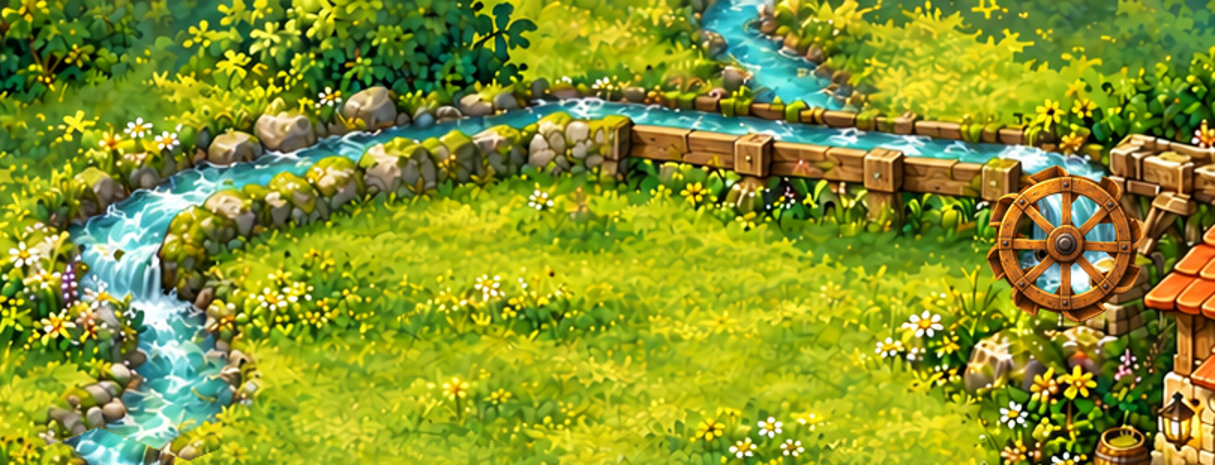
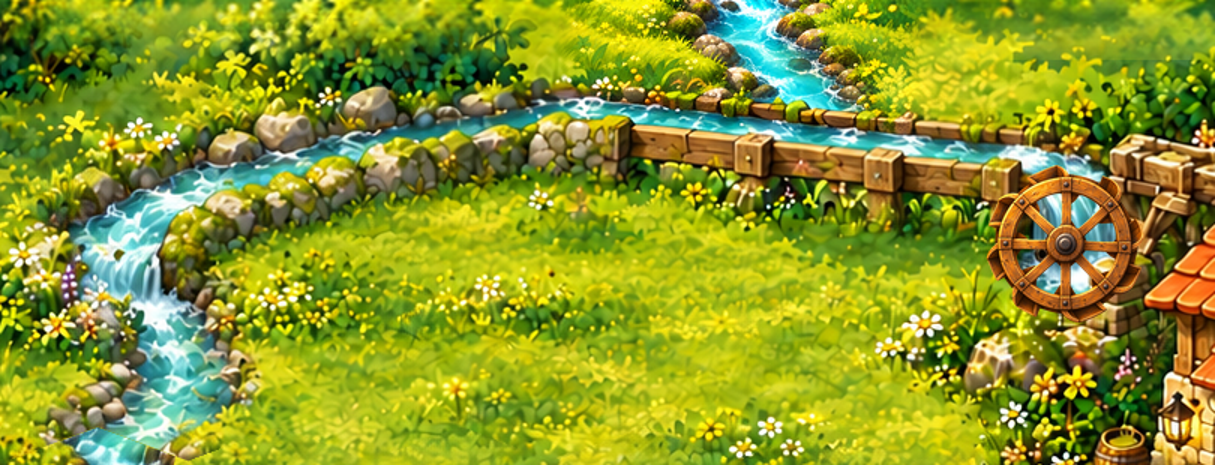
art(#46): deliver registered mill wide and repaired feeder join for actual review

Changed region(s): [[0.0, 0.0, 1.0, 0.3011]]

diff --git a/scripts/art-v9-mill-delivery.py b/scripts/art-v9-mill-delivery.py
@@ -104,7 +104,9 @@ for name, im in [('board-mask',board),('free-mask',free),('logical-water-mask',w
 native.save(out/'background.webp',lossless=True,method=6)
 # Explicit registration artifact; transparent outer region is not painted outpaint.
 wide_info={'status':'INCOMPLETE-native-registration-only-no-painted-outer-source','canvas':[4096,1600],'originalRect':[1212,329,1672,941]}
-wide_source=base/'candidates/mill-wide-generated-v1.png'
+native_before_wide=native.copy()
+native_before_wide.save(out/'native-registration-reference.png')
+wide_source=base/'candidates/mill-wide-generated-v2.png'
 fit_path=out/'wide-registration-fit.json'
 if wide_source.exists() and fit_path.exists():
     fit=json.loads(fit_path.read_text())
@@ -116,18 +118,53 @@ if wide_source.exists() and fit_path.exists():
     for inset in range(49):
         draw.rectangle((inset,inset,size[0]-1-inset,size[1]-1-inset),fill=round(inset*255/48))
     blend=ImageChops.lighter(blend,board)
+    ImageDraw.Draw(blend).rectangle((1210,40,1671,430),fill=255)
     patch=canvas.crop((1212,329,2884,1270))
     canvas.paste(Image.composite(native,patch,blend),(1212,329))
     wide=canvas.crop((412,200,3684,1400))
+    feeder_join_source=base/'candidates/mill-feeder-join-generated-v3.png'
+    if feeder_join_source.exists():
+        # Decorative feeder repair is entirely above the77-board and left of
+        # the protected building. Native and wide receive the same world patch.
+        patch=Image.open(feeder_join_source).convert('RGB').resize((250,185),Image.Resampling.LANCZOS)
+        patch_mask=Image.new('L',(250,185));patch_draw=ImageDraw.Draw(patch_mask)
+        for inset in range(17):
+            patch_draw.rectangle((inset,inset,249-inset,184-inset),fill=round(inset*255/16))
+        area=wide.crop((1730,45,1980,230))
+        wide.paste(Image.composite(patch,area,patch_mask),(1730,45))
+        native=wide.crop((800,129,2472,1070))
+        # Preserve a consistent core asset when runtime composites native over
+        # wide; do not reintroduce the repaired feeder seam with an old core.
+        native.save(out/'native-background.png')
+        native.save(out/'background.webp',lossless=True,method=6)
+        dry_outer=Image.composite(Image.open(out/'dry-background.webp').convert('RGB'),native,board)
+        dry_outer.save(out/'dry-background.webp',lossless=True,method=6)
+        decorative=native.convert('RGBA');decorative.putalpha(outside)
+        decorative.save(out/'decorative-outside-board.png')
+        with_wheel=native.convert('RGBA');with_wheel.alpha_composite(wheel,(1215,108))
+        with_wheel.convert('RGB').save(out/'native-with-wheel.png')
+        with_wheel.crop((1160,55,1390,285)).resize((690,690)).save(out/'wheel-race-review.png')
+        with_wheel.crop((560,0,1370,310)).resize((1215,465)).save(out/'feeder-race-wheel-review.png')
     wide.save(out/'wide-registered.png')
     wide.save(out/'wide.webp',lossless=True,method=6)
     wide_info={'status':'painted-registered-native-guard-passed-join-and-game-review-pending','canvas':[3272,1200],'originalRect':[800,129,1672,941],'joinBandPx':48,'sourceAffine':fit,'source':str(wide_source.relative_to(root))}
     guarded=wide.crop((800,129,2472,1070))
-    delta=ImageChops.difference(native,guarded)
+    delta=ImageChops.difference(native_before_wide,guarded)
     board_inner=board.filter(ImageFilter.MinFilter(3))
     changed=sum(max(p)>0 and a>250 for p,a in zip(delta.getdata(),board_inner.getdata()))
     assert changed==0,changed
     wide_info['fullBoardInteriorChangedRgbPixels']=changed
+    building_diff=ImageChops.difference(native_before_wide.crop((1210,40,1672,431)),guarded.crop((1210,40,1672,431)))
+    building_changed=sum(max(pixel)>0 for pixel in building_diff.getdata())
+    assert building_changed==0,building_changed
+    wide_info['millBuildingNativeGuardRectangle']=[1210,40,462,391]
+    wide_info['millBuildingChangedRgbPixels']=building_changed
+    if feeder_join_source.exists():
+        wide_info['feederJoinPatch']={'source':str(feeder_join_source.relative_to(root)),'sourceSha256':hashlib.sha256(feeder_join_source.read_bytes()).hexdigest(),'sourceNativeSize':list(Image.open(feeder_join_source).size),'deliveredWorldRect':[1730,45,250,185],'edgeBlendPx':16,'nativeAndWideSameWorldPatch':True,'outsideWhole77Board':True,'status':'source-art-and-actual-game-join-review-pending'}
+    wide_with_wheel=wide.convert('RGBA');wide_with_wheel.alpha_composite(wheel,(2015,237))
+    wide_with_wheel.convert('RGB').save(out/'wide-with-wheel-review.png')
+    for label,box in [('wide-top-feeder-join-review',(1730,45,1980,230)),('wide-bottom-creek-join-review',(1490,975,1760,1160)),('wide-mill-right-join-review',(2310,250,2580,600))]:
+        wide.crop(box).resize(((box[2]-box[0])*2,(box[3]-box[1])*2)).save(out/(label+'.png'))
 else:
     wide = Image.new('RGBA',(4096,1600))
     wide.paste(native,(1212,329))
@@ -236,7 +273,7 @@ manifest={'schemaVersion':1,'scene':'mill','activation':'inactive-source-handoff
     'canvas':list(size),'camera':geometry['camera'],
     'anchors':{'start':geometry['start']['pixel'],'goal':geometry['goal']['pixel'],'residentFeet':{'x':1430,'y':398,'status':'existing-native-anchor-game-review-pending'},'wheelAxle':{'x':1270,'y':163}},
     'wheel':{'file':'wheel-110.png','source':str(wheel_source.relative_to(root)),'sourceSize':[1254,1254],'sourcePivot':[627,627],'size':[110,110],'origin':[1215,108],'pivot':[55,55],'worldAxle':[1270,163],'sourceAlphaErosionNativePx':5,'transform':'one uniform110/1254 scale; no CSS correction','layering':'separate background prop above millrace; never foreground over bridge/road','status':'race-contact-and-animation-game-review-pending'},
-    'millrace':{'feederTop':[1053,0],'upperFeederJunction':[1050,74],'upperTroughHead':[950,80],'branchToMainCreek':[625,285],'branchToWheel':[1270,163],'review':'feeder-race-wheel-review.png','status':'source-continuity-visual-and-game-review-pending'},
+    'millrace':{'feederTop':[1056,0],'feederTopObservation':'source cyan range1034..1077 at nativeTOP afterjoin; decorative anchor only','upperFeederJunction':[1050,74],'upperTroughHead':[950,80],'branchToMainCreek':[625,285],'branchToWheel':[1270,163],'review':'feeder-race-wheel-review.png','status':'source-continuity-visual-and-game-review-pending'},
     'acceptedLayoutInputs':geometry['inputs'],'layoutChanges':geometry['layoutChanges'],
     'solution':[{'id':piece['id'],'placement':piece['placement'],'cells':piece['cells']} for piece in geometry['pieces']],
     'path':geometry['path'],

diff --git a/scripts/art-v9-mill-wide-register.py b/scripts/art-v9-mill-wide-register.py
@@ -1,0 +1,32 @@
+"""One uniform painted-source registration; no runtime/CSS adjustment."""
+from pathlib import Path
+from PIL import Image,ImageChops,ImageStat
+import json,hashlib
+root=Path(__file__).resolve().parents[1];base=root/'art/chapter-1-v9';out=base/'layers/water/mill-pilot'
+source=base/'candidates/mill-wide-generated-v2.png'
+wide=Image.open(source).convert('RGB')
+reference=out/'native-registration-reference.png'
+native=Image.open(reference if reference.exists() else out/'native-background.png').convert('RGB')
+def error(a,b):return sum(ImageStat.Stat(ImageChops.difference(a,b)).mean)
+small=native.resize((209,118));best=(float('inf'),None)
+for n in range(84,109,2):
+    scale=n/100;candidate=wide.resize((round(512*scale),round(200*scale)))
+    for y in range(18,60,2):
+        for x in range(108,175,2):
+            value=error(small,candidate.crop((x,y,x+209,y+118)))
+            if value<best[0]:best=(value,(scale,x,y))
+scale,cx,cy=best[1]
+quarter=native.resize((418,235));fine=(float('inf'),None)
+for n in range(round(scale*200)-4,round(scale*200)+5):
+    scale=n/200;candidate=wide.resize((round(1024*scale),round(400*scale)))
+    for y in range(cy*2-8,cy*2+9):
+        for x in range(cx*2-8,cx*2+9):
+            value=error(quarter,candidate.crop((x,y,x+418,y+235)))
+            if value<fine[0]:fine=(value,(scale,x,y))
+scale,x,y=fine[1];translation=[1212-4*x,329-4*y]
+delivery=[round(4096*scale),round(1600*scale)]
+assert translation[0]<=412 and translation[1]<=200
+assert translation[0]+delivery[0]>=3684 and translation[1]+delivery[1]>=1400
+fit={'method':'single uniform source-level affine fitted to nativecore at1/4 scale; exact native board and building restored bydeliverybuilder; join/art/game review pending','source':str(source.relative_to(root)),'sourceSha256':hashlib.sha256(source.read_bytes()).hexdigest(),'sourceNativeSize':list(wide.size),'rgbMeanAbsoluteError':fine[0]/3,'scale':scale,'sourceCoreXAtQuarter':x,'sourceCoreYAtQuarter':y,'translation':translation,'registeredPaintSize':delivery,'coverage':'entire3272x1200crop covered by painted source; no blank fill/reflection/repeated edge strips'}
+(out/'wide-registration-fit.json').write_text(json.dumps(fit,indent=2)+'\n')
+print(json.dumps(fit,indent=2))

diff --git a/docs/chapter-1-rc/art/MILL-NATIVE-SOURCE-HANDOFF.md b/docs/chapter-1-rc/art/MILL-NATIVE-SOURCE-HANDOFF.md
@@ -4,7 +4,11 @@ Current adaptive native candidate uses `scripts/art-v9-mill-adaptive-guide.py` t
 
 Updated checks separate strict water support from flat dry shore: water leak over ANY free mask0; all seven water centers connected; bridge middle/ends255/0/0; both shared-water bridge contacts255; freeCORE Euclidean18px RGB changes0; dry boundary1825changed pixels/maxdepth7.38181px≤12. No full-free RGB0 claim is made. The local source repair retained three individually inspected free-ground foam/AA fringe pixels; their source alpha is removed and the original dry plate restored at `[633,560]`, `[635,561]`, `[636,561]`. `free-water-fringe-guard.png` records this source cleanup; no game terrain is inferred or edited from colors. Conservative source-color cyan candidates on changed free ground are now0. This is not a substitute for semantic visual review of flat shore details or actual bridge grounding.
 
-Painted wide is in progress separately. Until a delivered3272×1200 wide and originalRect800,129,1672,941 replace the explicitly incomplete registration artifact, this native checkpoint must not be activated or called actual-ready. All source prompts and failed/intermediate source ingredients remain preserved.
+Painted wide is now delivered as an actual-review candidate:3272×1200, originalRect800,129,1672,941, samecamera as native; `wide.webp` and `wide-with-wheel-review.png`. Generatedwidev1 was rejected for boxseams; v2 repairs those. Uniform source scale.925/translation164,45 provides full painted coverage without white fill, reflection or repeated edge strips. Full77-board and guarded millbuilding RGB changes are0 against the pre-wide native reference.
+
+A separate local source patch repairs the feeder's severed rocks at the native/wide join, above the entire board and left of the protected building. It is applied at one worldrectangle1730,45,250,185 with16pxedge blend, then the nativeouterdecor is extracted from that same result so a runtime native overlay cannot restore the old seam. The delivered feeder TOP center is approximately1056 after this patch; the nativev4 pre-join source was1053. Inspect `wide-top-feeder-join-review.png`, `wide-bottom-creek-join-review.png`, `wide-mill-right-join-review.png` and actual clean/mask endpoints. This is not independent ART/GAME acceptance.
+
+Rebuild delivery with `scripts/art-v9-mill-delivery.py`; source fitting is reproducible with `scripts/art-v9-mill-wide-register.py` using the saved pre-wide `native-registration-reference.png`. Common/runtime installation remains coordinator-owned. Copy baked `background.webp` and `wide.webp`; do not stack `logical-water.png` again. The110px wheel stays a separate registered sprite at origin1215,108, pivot55,55, axle1270,163; never a foreground layer over road/deck. All source prompts, failed/intermediate ingredients and the failed network attempt for the local join remain recorded.
 
 Independent native source work only; no bridge/paving rollout or runtime activation. The registered 1672×941 checkpoint is in `art/chapter-1-v9/layers/water/mill-pilot/manifest.json`. Reproduce with `python3 scripts/art-v9-mill-pilot.py`.
 
